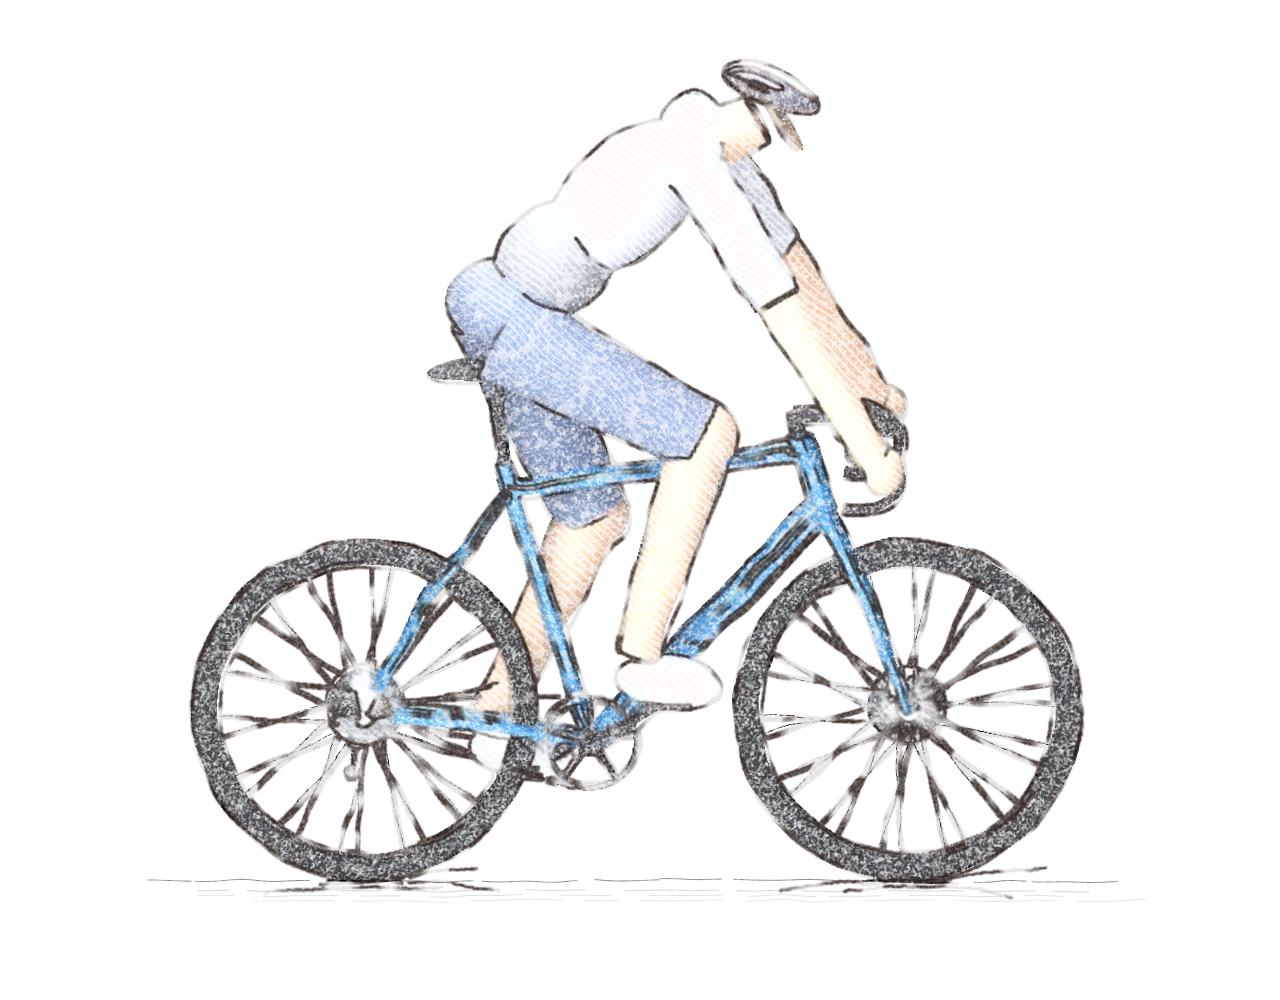
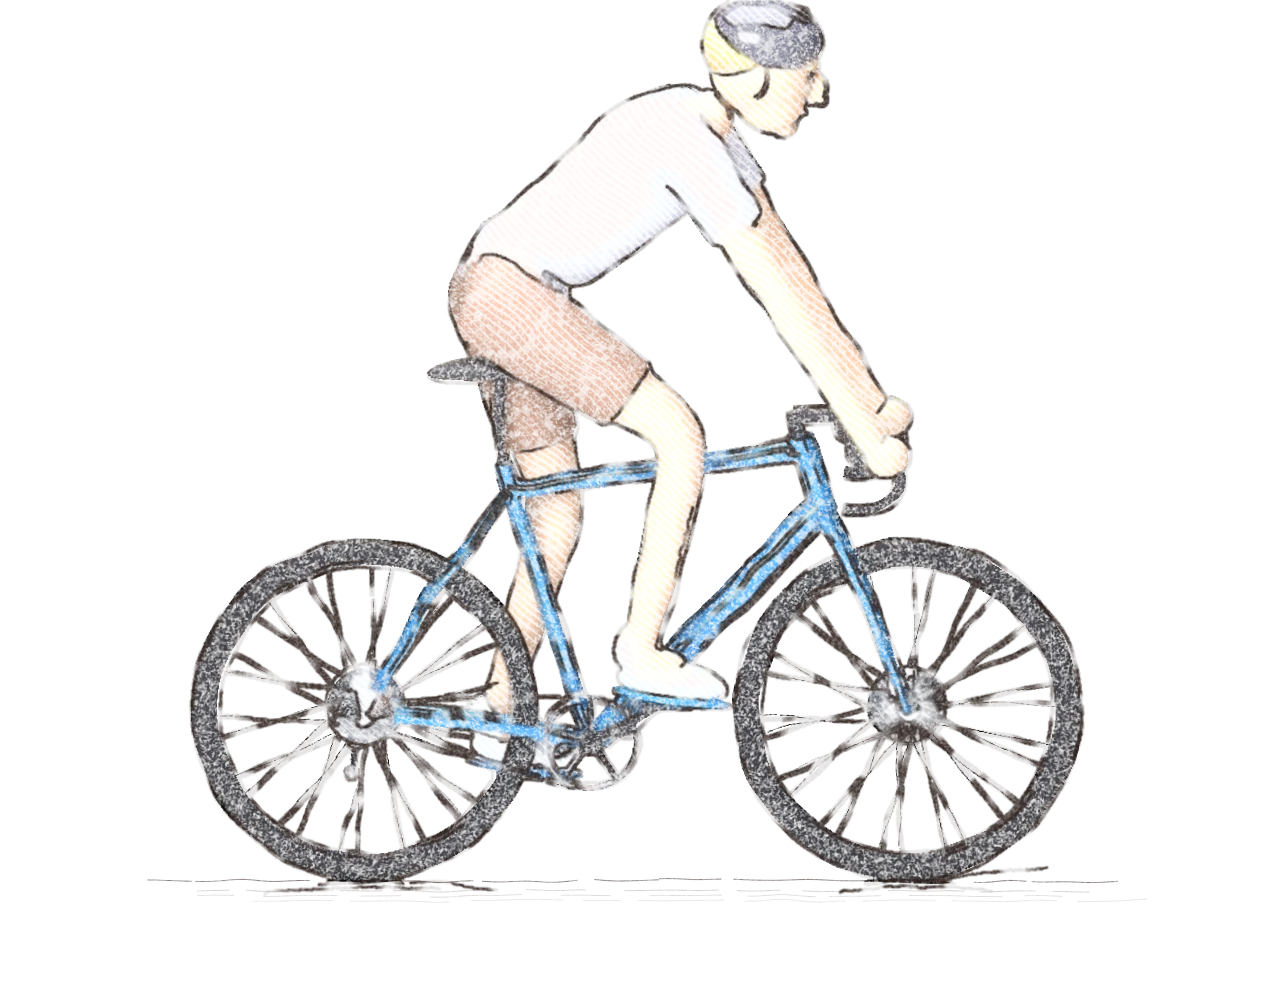
Model the height-diagram rider as a real person with a face, instead of stacked primitives
The coloured-pencil riders still looked bad, and the reason was the figure underneath: a head made of
a helmet ellipsoid floating above a stub neck, limbs made of tubes, hands as blobs. A pencil filter
cannot rescue that, so the person is now modelled differently (art/blender/figure.py).

The body is a Skin-modifier mesh: a skeleton of joints with a thickness at each, wrapped by Blender in
one continuous subdivided surface, so shoulders flow into arms, the neck into the head and hips into
thighs. The pose still comes from two-bone IK onto the bike's saddle, pedals and bars. Clothes are not
separate shells (those had ragged open ends): the evaluated body mesh is coloured per vertex as skin,
jersey or shorts by where it sits, with the hem as a plane across the torso and the sleeve and short
legs ending at fixed points along the limb, and the clothed vertices are pushed out a little so they
stand off the skin. The head has a face (brow, nose, lips, chin, ears, eyes, hair) under a vented
helmet, and the feet wear trainers. The eight riders differ in skin tone, hair and clothes. All eight
sizes were re-rendered and run through the same pencil sketch.

Rejected: tuning the old figure further, and a pencil style heavy enough to hide it. bikes.py now
exposes the bars' half-width (hand_y) so the hands land on the grips at every size.

Honest limits: faces are small at the size the diagram is shown, so they read as profiles rather than
[…]

diff --git a/index.html b/index.html
@@ -127,14 +127,14 @@
       <div class="fit-radar-diagram">
         <div class="fit-radar-scale-wrap" id="radarScaleWrap">
           <div class="radar-stage" id="radarStage" role="img" aria-label="A child about 125 cm tall riding a bike with 20 inch wheels">
-            <img class="radar-img" src="images/sizes/size_100.webp?v=3" width="1280" height="1000" loading="lazy" decoding="async" alt="">
-            <img class="radar-img" src="images/sizes/size_112.webp?v=3" width="1280" height="1000" loading="lazy" decoding="async" alt="">
-            <img class="radar-img is-on" src="images/sizes/size_125.webp?v=3" width="1280" height="1000"  decoding="async" alt="">
-            <img class="radar-img" src="images/sizes/size_140.webp?v=3" width="1280" height="1000" loading="lazy" decoding="async" alt="">
-            <img class="radar-img" src="images/sizes/size_152.webp?v=3" width="1280" height="1000" loading="lazy" decoding="async" alt="">
-            <img class="radar-img" src="images/sizes/size_165.webp?v=3" width="1280" height="1000" loading="lazy" decoding="async" alt="">
-            <img class="radar-img" src="images/sizes/size_178.webp?v=3" width="1280" height="1000" loading="lazy" decoding="async" alt="">
-            <img class="radar-img" src="images/sizes/size_192.webp?v=3" width="1280" height="1000" loading="lazy" decoding="async" alt="">
+            <img class="radar-img" src="images/sizes/size_100.webp?v=4" width="1280" height="1000" loading="lazy" decoding="async" alt="">
+            <img class="radar-img" src="images/sizes/size_112.webp?v=4" width="1280" height="1000" loading="lazy" decoding="async" alt="">
+            <img class="radar-img is-on" src="images/sizes/size_125.webp?v=4" width="1280" height="1000"  decoding="async" alt="">
+            <img class="radar-img" src="images/sizes/size_140.webp?v=4" width="1280" height="1000" loading="lazy" decoding="async" alt="">
+            <img class="radar-img" src="images/sizes/size_152.webp?v=4" width="1280" height="1000" loading="lazy" decoding="async" alt="">
+            <img class="radar-img" src="images/sizes/size_165.webp?v=4" width="1280" height="1000" loading="lazy" decoding="async" alt="">
+            <img class="radar-img" src="images/sizes/size_178.webp?v=4" width="1280" height="1000" loading="lazy" decoding="async" alt="">
+            <img class="radar-img" src="images/sizes/size_192.webp?v=4" width="1280" height="1000" loading="lazy" decoding="async" alt="">
             <svg class="radar-ruler" viewBox="0 0 640 500" aria-hidden="true">
               <line class="dim-ext" x1="24" y1="440" x2="616" y2="440"/>
               <g id="radarRuler">

diff --git a/art/blender/figure.py b/art/blender/figure.py
@@ -1,0 +1,265 @@
+"""A person on a bike, modelled as a smooth body rather than a stack of primitives.
+
+    import figure
+    figure.build(key, height_cm=125, jersey=(...), shorts=(...), ...)
+
+The body is a Skin-modifier mesh: a skeleton of joints with a thickness at each, which Blender wraps in
+one continuous, subdivided surface, so shoulders flow into arms, hips into thighs and the neck into the
+head, instead of ellipsoids poking out of each other. Clothes are second skins over the same skeleton
+(a jersey with short sleeves, shorts to above the knee). The head is modelled with a face: brow, nose,
+lips, chin, ears, eyes and hair, under a helmet with vents. The pose comes from two-bone IK onto the bike's
+key points (saddle, pedals, bars), as in rider.py. Units are metres; the rider faces +X.
+"""
+import math
+import os
+import sys
+
+sys.path.insert(0, os.path.dirname(os.path.abspath(__file__)))
+import bikelib as bl  # noqa: E402
+import bmesh  # noqa: E402
+import bpy  # noqa: E402
+from mathutils import Vector  # noqa: E402
+
+V = Vector
+
+
+def ik(a, b, l1, l2, pole):
+    d = b - a
+    dist = max(1e-4, min(d.length, l1 + l2 - 1e-4))
+    u = d.normalized()
+    x = (l1 * l1 - l2 * l2 + dist * dist) / (2 * dist)
+    h = math.sqrt(max(l1 * l1 - x * x, 0.0))
+    p = pole - a
+    p = p - u * p.dot(u)
+    p = p.normalized() if p.length > 1e-6 else V((0, 0, 1))
+    return a + u * x + p * h
+
+
+def skin(name, pts, edges, radii, mat, root=0, levels=2):
+    """One smooth surface through a skeleton: pts [(x,y,z)], edges [(i,j)], radii [r] (circular sections)."""
+    bm = bmesh.new()
+    layer = bm.verts.layers.skin.verify()                      # before the verts: adding a layer invalidates existing ones
+    vs = [bm.verts.new(p) for p in pts]
+    for i, j in edges:
+        bm.edges.new((vs[i], vs[j]))
+    for v, r in zip(vs, radii):
+        v[layer].radius = (r, r)
+    vs[root][layer].use_root = True
+    me = bpy.data.meshes.new(name)
+    bm.to_mesh(me)
+    bm.free()
+    ob = bpy.data.objects.new(name, me)
+    bpy.context.scene.collection.objects.link(ob)
+    m = ob.modifiers.new('skin', 'SKIN')
+    m.use_smooth_shade = True
+    s = ob.modifiers.new('sub', 'SUBSURF')
+    s.levels = levels
+    s.render_levels = levels
+    ob.data.materials.append(mat)
+    return ob
+
+
+def blob(name, loc, radii, mat, rot=(0, 0, 0), parent=None):
+    bpy.ops.mesh.primitive_uv_sphere_add(location=loc, radius=1, segments=40, ring_count=24)
+    o = bpy.context.active_object
+    o.name = name
+    o.scale = radii
+    o.rotation_euler = rot
+    o.data.materials.append(mat)
+    bl.smooth(o)
+    if parent is not None:
+        o.parent = parent
+    return o
+
+
+def lerp(a, b, t):
+    return a + (b - a) * t
+
+
+def build(key, height_cm=125, jersey=(0.9, 0.4, 0.1), shorts=(0.16, 0.20, 0.30), helmet_col=(0.95, 0.95, 0.92), skin_col=(0.62, 0.43, 0.32),
+          hair_col=(0.07, 0.045, 0.03), shoe_col=(0.95, 0.95, 0.95), sole_col=(0.9, 0.35, 0.1), lean_deg=52, name='p_', child=None):
+    before = set(bpy.data.objects)
+    m = bl.material
+    s = height_cm / 178.0
+    th = s ** 0.72                                     # limb thickness: children are chunkier for their height
+    child = (height_cm < 150) if child is None else child
+    hs = 1.0 + 0.50 * (1 - s) if child else 1.0
+    M = {
+        'skin': m(name + 'skin', skin_col, roughness=0.55),
+        'jersey': m(name + 'jersey', jersey, roughness=0.8),
+        'shorts': m(name + 'shorts', shorts, roughness=0.85),
+        'helmet': m(name + 'helmet', helmet_col, roughness=0.3, coat=0.6),
+        'vent': m(name + 'vent', (0.04, 0.04, 0.05), roughness=0.6),
+        'hair': m(name + 'hair', hair_col, roughness=0.8),
+        'eye': m(name + 'eye', (0.02, 0.015, 0.012), roughness=0.2),
+        'lip': m(name + 'lip', tuple(min(1, c * 0.85 + 0.06) for c in (skin_col[0] * 1.2, skin_col[1] * 0.65, skin_col[2] * 0.7)), roughness=0.5),
+        'shoe': m(name + 'shoe', shoe_col, roughness=0.55),
+        'sole': m(name + 'sole', sole_col, roughness=0.7),
+        'glove': m(name + 'glove', skin_col, roughness=0.55),
+    }
+
+    # ---- body dimensions
+    thigh, shin = 0.43 * s, 0.44 * s
+    torso_len, uarm, farm = 0.50 * s, 0.30 * s, 0.27 * s
+    hip_w, sh_w = 0.090 * s, 0.170 * s
+
+    saddle = V((key['saddle'][0], 0.0, key['saddle'][1]))
+    hip = saddle + V((0.0, 0, 0.100 * s + 0.020))
+    lean = math.radians(lean_deg)
+    up = V((math.cos(lean), 0, math.sin(lean)))
+    sh_mid = hip + up * torso_len
+    waist = hip + up * (torso_len * 0.42)
+    chest = hip + up * (torso_len * 0.78)
+    neck_base = sh_mid + V((0.012 * s, 0, -0.012 * s))
+    # the head sits in front of and above the neck base, looking ahead
+    neck_dir = V((math.cos(lean * 0.32 + 0.55), 0, math.sin(lean * 0.32 + 0.55)))
+    head_c = neck_base + neck_dir * (0.150 * s * (0.8 + 0.2 * hs)) + V((0.014 * s, 0, 0))
+    neck_top = head_c - neck_dir * (0.085 * s * hs)
+    hand_xz = key['hand']
+    ped_near = V((key['pedal_near'][0], -0.100, key['pedal_near'][1]))
+    ped_far = V((key['pedal_far'][0], 0.100, key['pedal_far'][1]))
+
+    pts, edges, rad = [], [], []
+
+    def add(p, r, link=None):
+        pts.append(tuple(p))
+        rad.append(r)
+        i = len(pts) - 1
+        if link is not None:
+            edges.append((link, i))
+        return i
+
+    pelvis = add(hip, 0.108 * th)
+    legs, arms = {}, {}
+    for side in (-1, 1):
+        hj = hip + V((0, side * hip_w, -0.012))
+        ankle = (ped_near if side == -1 else ped_far) + V((-0.045 * s, 0, 0.095 * s))
+        ankle.y = side * 0.100
+        knee = ik(hj, ankle, thigh, shin, hj + V((1.0, side * 0.10, 0.25)))
+        legs[side] = (hj, knee, ankle)
+        h_i = add(hj, 0.092 * th, pelvis)
+        k_i = add(knee, 0.056 * th, h_i)
+        a_i = add(ankle, 0.038 * th, k_i)
+        add(ankle + V((0.085 * s, 0, -0.035 * s)), 0.032 * th, a_i)
+    w_i = add(waist, 0.104 * th, pelvis)
+    c_i = add(chest, 0.122 * th, w_i)
+    n_i = add(neck_base, 0.060 * th, c_i)
+    t_i = add(neck_top, 0.048 * th * hs, n_i)
+    for side in (-1, 1):
+        shj = sh_mid + V((-0.006 * s, side * sh_w, -0.030 * s))
+        hand = V((hand_xz[0], side * key.get('hand_y', 0.21), hand_xz[1]))
+        elbow = ik(shj, hand, uarm, farm, shj + V((-0.15, side * 0.60, -0.12)))
+        arms[side] = (shj, elbow, hand)
+        sh_i = add(shj, 0.060 * th, c_i)
+        e_i = add(elbow, 0.042 * th, sh_i)
+        wr = hand - (hand - elbow).normalized() * 0.03 * s
+        wr_i = add(wr, 0.031 * th, e_i)
+        add(hand + (hand - elbow).normalized() * 0.040 * s, 0.036 * th, wr_i)
+    body = skin(name + 'skeleton', pts, edges, rad, M['skin'], root=pelvis, levels=3)
+    body.hide_render = True
+    # the evaluated, smooth body becomes one mesh; every vertex gets a colour (skin, jersey or shorts) by where it sits
+    import numpy as np
+    dg = bpy.context.evaluated_depsgraph_get()
+    me = bpy.data.meshes.new_from_object(body.evaluated_get(dg), depsgraph=dg)
+    nv = len(me.vertices)
+    co = np.empty(nv * 3, np.float32)
+    me.vertices.foreach_get('co', co)
+    co = co.reshape(-1, 3)
+    nrm = np.empty(nv * 3, np.float32)
+    me.vertices.foreach_get('normal', nrm)
+    nrm = nrm.reshape(-1, 3)
+    segs = []   # (a, b, ra, rb, zone)
+
+    def seg(a_, b_, ra, rb, zone):
+        segs.append((np.array(a_, np.float32), np.array(b_, np.float32), ra, rb, zone))
+    seg(hip, waist, 0.108 * th, 0.104 * th, 'trunk')
+    seg(waist, chest, 0.104 * th, 0.122 * th, 'trunk')
+    seg(chest, neck_base, 0.122 * th, 0.060 * th, 'collar')
+    seg(neck_base, neck_top, 0.060 * th, 0.048 * th * hs, 'neck')
+    for side in (-1, 1):
+        hj, knee, ankle = legs[side]
+        seg(hip, hj, 0.108 * th, 0.092 * th, 'hip')
+        seg(hj, knee, 0.092 * th, 0.056 * th, 'thigh')
+        seg(knee, ankle, 0.056 * th, 0.038 * th, 'shin')
+        seg(ankle, ankle + V((0.085 * s, 0, -0.035 * s)), 0.038 * th, 0.032 * th, 'foot')
+        shj, elbow, hand = arms[side]
+        seg(chest, shj, 0.122 * th, 0.060 * th, 'shoulder')
+        seg(shj, elbow, 0.060 * th, 0.042 * th, 'uarm')
+        seg(elbow, hand, 0.042 * th, 0.034 * th, 'farm')
+    best = np.full(nv, 1e9, np.float32)
+    zone = np.empty(nv, dtype=object)
+    tpar = np.zeros(nv, np.float32)
+    for a_, b_, ra, rb, zn in segs:
+        ab = b_ - a_
+        t = np.clip(((co - a_) @ ab) / max(1e-9, float(ab @ ab)), 0, 1)
+        d = np.linalg.norm(co - (a_ + t[:, None] * ab), axis=1) - (ra + (rb - ra) * t)
+        better = d < best
+        best = np.where(better, d, best)
+        zone = np.where(better, zn, zone)
+        tpar = np.where(better, t, tpar)
+    upv = np.array(up, np.float32)
+    u = (co - np.array(hip, np.float32)) @ upv
+    body_z = np.isin(zone, ['trunk', 'shoulder', 'collar'])
+    # the hem is a plane across the torso (so it is a clean line), the sleeves and shorts legs end at fixed points along the limb
+    is_j = (body_z & (u > -0.030 * s)) | ((zone == 'uarm') & (tpar < 0.60))
+    is_s = (zone == 'hip') | ((zone == 'trunk') & (u <= -0.030 * s)) | ((zone == 'thigh') & (tpar < 0.70))
+    cols = np.empty((nv, 4), np.float32)
+    cols[:] = (*skin_col, 1.0)
+    cols[is_j] = (*jersey, 1.0)
+    cols[is_s] = (*shorts, 1.0)
+    puff = np.where(is_j | is_s, 0.012 * th, 0.0).astype(np.float32)          # clothes stand off the skin a little
+    co2 = co + nrm * puff[:, None]
+    me.vertices.foreach_set('co', co2.ravel())
+    ca = me.color_attributes.new('col', 'FLOAT_COLOR', 'POINT')
+    ca.data.foreach_set('color', cols.ravel())
+    for p in me.polygons:
+        p.use_smooth = True
+    me.update()
+    person = bpy.data.objects.new(name + 'body', me)
+    bpy.context.scene.collection.objects.link(person)
+    vm = bpy.data.materials.new(name + 'vcol')
+    vm.use_nodes = True
+    attr = vm.node_tree.nodes.new('ShaderNodeAttribute')
+    attr.attribute_name = 'col'
+    bsdf = vm.node_tree.nodes['Principled BSDF']
+    bsdf.inputs['Roughness'].default_value = 0.62
+    vm.node_tree.links.new(attr.outputs['Color'], bsdf.inputs['Base Color'])
+    person.data.materials.clear()
+    person.data.materials.append(vm)
+
+    # ---- feet: trainers
+    for side in (-1, 1):
+        hj, knee, ankle = legs[side]
+        blob(name + 'shoe%d' % side, ankle + V((0.06 * s, 0, -0.050 * s)), (0.105 * s, 0.040 * s, 0.040 * s), M['shoe'], rot=(0, math.radians(8), 0))
+        blob(name + 'sole%d' % side, ankle + V((0.06 * s, 0, -0.082 * s)), (0.112 * s, 0.043 * s, 0.014 * s), M['sole'], rot=(0, math.radians(8), 0))
+        blob(name + 'sock%d' % side, ankle + V((-0.006 * s, 0, 0.012 * s)), (0.044 * s, 0.040 * s, 0.050 * s), M['shoe'])
+    # ---- hands: closed around the grips
+    for side in (-1, 1):
+        shj, elbow, hand = arms[side]
+        blob(name + 'hand%d' % side, hand + V((0.012 * s, 0, -0.004 * s)), (0.046 * s, 0.036 * s, 0.040 * s), M['glove'])
+
+    # ---- head: a face under a helmet
+    hp = bpy.data.objects.new(name + 'head', None)
+    bpy.context.scene.collection.objects.link(hp)
+    hp.location = head_c
+    hp.rotation_euler = (0, math.radians(14), 0)
+    k = s * hs * 1.0
+
+    def part(nm, loc, rr, mat, rot=(0, 0, 0)):
+        return blob(name + nm, (loc[0] * k, loc[1] * k, loc[2] * k), (rr[0] * k, rr[1] * k, rr[2] * k), mat, rot=rot, parent=hp)
+    part('cranium', (0.000, 0, 0.008), (0.098, 0.080, 0.100), M['skin'])
+    part('jaw', (0.030, 0, -0.052), (0.066, 0.058, 0.064), M['skin'])
+    part('brow', (0.082, 0, 0.032), (0.022, 0.058, 0.012), M['skin'])
+    part('nose', (0.100, 0, -0.010), (0.030, 0.015, 0.034), M['skin'], rot=(0, math.radians(-14), 0))
+    part('nosetip', (0.122, 0, -0.028), (0.014, 0.014, 0.012), M['skin'])
+    part('chin', (0.066, 0, -0.094), (0.026, 0.030, 0.022), M['skin'])
+    part('lips', (0.086, 0, -0.060), (0.016, 0.026, 0.008), M['lip'])
+    for sd in (-1, 1):
+        part('eye%d' % sd, (0.086, sd * 0.033, 0.014), (0.010, 0.010, 0.012), M['eye'])
+        part('brow%d' % sd, (0.090, sd * 0.034, 0.034), (0.010, 0.024, 0.005), M['hair'])
+        part('ear%d' % sd, (-0.008, sd * 0.085, -0.010), (0.018, 0.009, 0.030), M['skin'])
+    part('hair', (-0.030, 0, 0.040), (0.096, 0.086, 0.085), M['hair'])
+    part('helmet', (-0.010, 0, 0.058), (0.112, 0.094, 0.078), M['helmet'], rot=(0, math.radians(-6), 0))
+    for i, y in enumerate((-0.040, 0.0, 0.040)):
+        part('vent%d' % i, (0.002, y, 0.118), (0.060, 0.010, 0.010), M['vent'])
+    return [o for o in bpy.data.objects if o not in before]

diff --git a/art/blender/render_sizes.py b/art/blender/render_sizes.py
@@ -17,7 +17,7 @@ sys.path.insert(0, os.path.dirname(os.path.abspath(__file__)))
 import bikelib as bl  # noqa: E402
 import bikes  # noqa: E402
 import bpy  # noqa: E402
-import rider  # noqa: E402
+import figure  # noqa: E402
 from mathutils import Vector  # noqa: E402
 
 args = sys.argv[sys.argv.index('--') + 1:]
@@ -39,6 +39,9 @@ LADDER = [
     (192, 'gravel', 1.07, 0.352, '700c', (0.50, 0.52, 0.58), (0.05, 0.25, 0.55), (0.10, 0.10, 0.12)),
 ]
 
+SKINS = [(0.62, 0.43, 0.32), (0.80, 0.60, 0.47), (0.46, 0.30, 0.22), (0.72, 0.52, 0.40), (0.87, 0.68, 0.54), (0.55, 0.37, 0.27), (0.78, 0.58, 0.45), (0.66, 0.46, 0.34)]
+HAIRS = [(0.07, 0.045, 0.03), (0.50, 0.36, 0.17), (0.02, 0.02, 0.02), (0.24, 0.13, 0.06), (0.62, 0.30, 0.10)]
+SHORTS = [(0.16, 0.20, 0.30), (0.25, 0.25, 0.28), (0.12, 0.24, 0.30), (0.30, 0.20, 0.16)]
 W_M = 2.6                                   # width of the frame in metres, the same for every size
 H_M = W_M * 500 / 640
 PHI = math.radians(11)
@@ -52,8 +55,11 @@ def one(h, kind, geo, R, wheel_lbl, jersey, frame, helmet):
     saddle_z = (0.292 * geo if kind == 'gravel' else bikes.SPECS['kids']['bb'] * geo) + 0.4027 * h / 100.0   # bottom bracket + 0.885 x inseam
     crank = max(0.100, min(0.175, 0.175 * (h / 178.0) ** 0.7))
     key = bikes.build(kind, frame=frame, accent=(0.95, 0.9, 0.82), pedal_angle=0.55, geo=geo, R=R, saddle_z=saddle_z, crank=crank, extras=(kind != 'gravel'))
-    rider.build(key, style='casual', jersey=jersey, shorts=(0.16, 0.20, 0.30), helmet_col=helmet, skin=(0.62, 0.43, 0.32), pose='seated',
-                lean_deg=(56 if h <= 152 else 48 - (h - 165) * 0.2), scale=s, head_scale=1.0 + 0.55 * (1 - s), name='kid_')
+    i = [row[0] for row in LADDER].index(h)
+    skin_col = SKINS[i % len(SKINS)]
+    hair_col = HAIRS[(i * 3) % len(HAIRS)]
+    figure.build(key, height_cm=h, jersey=jersey, shorts=SHORTS[i % len(SHORTS)], helmet_col=helmet, sole_col=frame, skin_col=skin_col, hair_col=hair_col,
+                 lean_deg=(56 if h <= 152 else 48 - (h - 165) * 0.2), name='kid_')
     bl.studio_ground()
     w = bpy.data.worlds.new('studio')
     w.use_nodes = True

diff --git a/art/blender/bikes.py b/art/blender/bikes.py
@@ -283,6 +283,7 @@ def build(kind, frame=(0.012, 0.19, 0.16), accent=(0.89, 0.33, 0.11), pedal_angl
     left = [(p[0], -p[1], p[2]) for p in half]
     bl.tube('bar', list(reversed(left)) + [(clamp.x, 0.0, clamp.z)] + half, brad, bmat, kind='NURBS', res=10)
     key['hand'] = (hand[0], hand[2])
+    key['hand_y'] = abs(hand[1])
     key['bar_clamp'] = (clamp.x, clamp.z)
     for s in (-1, 1):
         if S['bars'] == 'drop':
